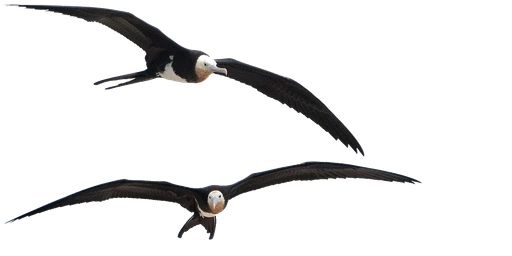
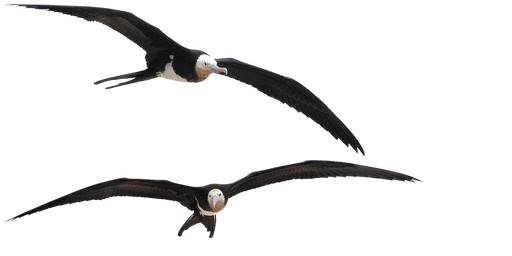
Matte the picture birds' outlines, so no rim of sky shows against the land
A dark bird cut from a bright sky reached full alpha while its edge pixels
were still part sky, and the dark eagle and ravens showed a pale rim against
the Desert's cliffs and the Swiss forest. Their outlines are now matted
between the bird's own colour and the fitted sky, past the photos' lens
fringes (the ibises' blue wingtips).

Claude-Session: https://claude.ai/code/session_012iNshuFMyvbkPRWxxbwWQm

diff --git a/tools/bird-sprites.py b/tools/bird-sprites.py
@@ -22,7 +22,9 @@
 #     surface (a cubic in x and y, per channel) to the pixels far from the
 #     bird's colours, refitted three times; a pixel's alpha is how far it is
 #     from that sky (between `low` and `high`, 0-255 RGB distance); only the
-#     largest piece is kept; the sky is un-mixed from the edge's pixels.
+#     largest piece is kept; the sky is un-mixed from the edge's pixels, and
+#     where the bird is far from the sky's colour (a dark eagle), its outline
+#     is matted between the two (no rim of sky round it against the land).
 #   - 'blue': a grey and white bird against blue sky, where a grey wing is as
 #     bright as the sky: the same, by how much less blue (B − R) it is than
 #     the sky behind it.
@@ -229,7 +231,23 @@ def cut_from_sky(image, low, high, blue, fill=False):
         solid = ndimage.binary_fill_holes(ndimage.binary_closing(alpha > 0.5, iterations=2))
         alpha = np.maximum(alpha, ndimage.binary_erosion(solid, iterations=2))
     unmixed = np.clip(background + (image - background) / np.maximum(alpha, 0.05)[..., None], 0, 255)
-    return alpha, np.where(alpha[..., None] > 0.98, image, unmixed)
+    colour = np.where(alpha[..., None] > 0.98, image, unmixed)
+    # Where the bird is far from its sky (a dark eagle against blue), the ramp is solid while a pixel is still part sky,
+    # and that sky would show as a pale rim against anything darker. There its outline is matted between the two colours it
+    # lies between, the bird's nearest inside and the sky: its coverage is how far along from the sky to the bird it is,
+    # and its colour the bird's.
+    core = ndimage.binary_erosion(alpha > 0.98, iterations=5)   # past a lens's colour fringe, a few pixels wide
+    if core.any():
+        nearest = ndimage.distance_transform_edt(~core, return_distances=False, return_indices=True)
+        inside = image[nearest[0], nearest[1]]
+        towards = inside - background
+        contrast = (towards ** 2).sum(-1)
+        coverage = np.clip(((image - background) * towards).sum(-1) / np.maximum(contrast, 1e-6), 0, 1)
+        rim = ndimage.binary_dilation(alpha <= 0.02, iterations=7)   # the outline only: never a pale patch inside the bird
+        matted = (alpha > 0) & ~core & rim & (contrast > high ** 2)
+        alpha = np.where(matted, coverage, alpha)
+        colour = np.where(matted[..., None], inside, colour)
+    return alpha, colour
 
 
 def cut_grabcut(image, spec):
